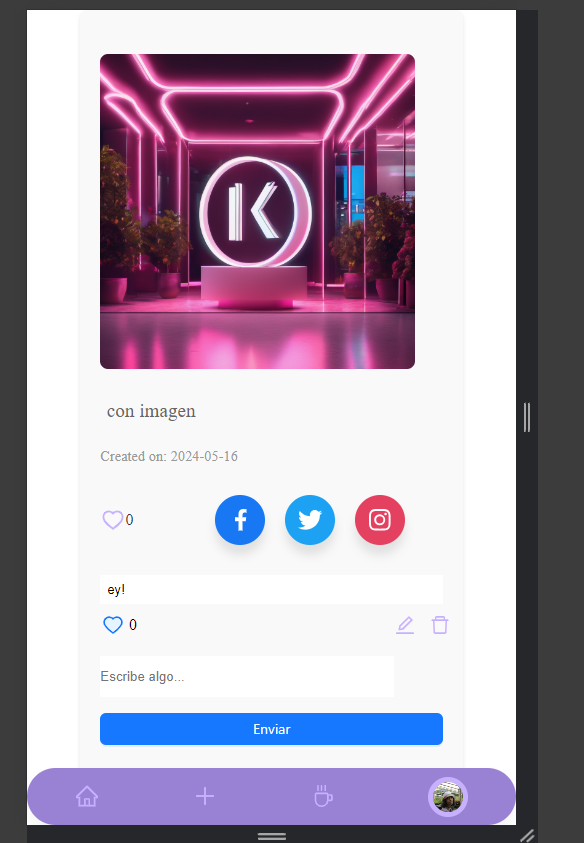
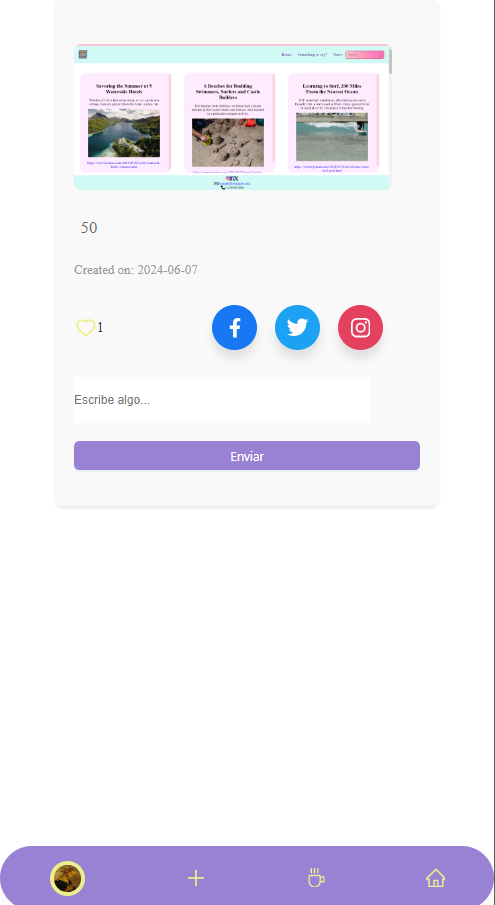
screenshots for readme

diff --git a/src/componets/UserCard/UserCard.scss b/src/componets/UserCard/UserCard.scss
@@ -1,4 +1,6 @@
 @import "../../App.scss";
+@import "../../Colors.scss";
+
 
 .userCardContainer {
   display: flex;
@@ -97,7 +99,7 @@
 }
 
 .followUserCard {
-  background-color: #54989d;
+  background-color: $colorPrimario;
 }
 
 .followUserCard:hover {

diff --git a/src/componets/PostDetail/PostDetail.scss b/src/componets/PostDetail/PostDetail.scss
@@ -1,3 +1,4 @@
+@import "../../Colors.scss";
 .containerPostDetailContainer{
   width: 80%;
   display: flex;
@@ -158,4 +159,6 @@
       
     };
   }
-  
+  .ant-btn{
+    background-color: $colorPrimario;
+  }

diff --git a/src/Colors.scss b/src/Colors.scss
@@ -1,5 +1,5 @@
 $colorPrimario: #9982D4;
-$colorSecundario: #c7b1ff;
+$colorSecundario: #eeee8c;
 $shadowColor: rgba(0, 0, 0, 0.2); 
 
 $colorTexto: #3b2572; 
